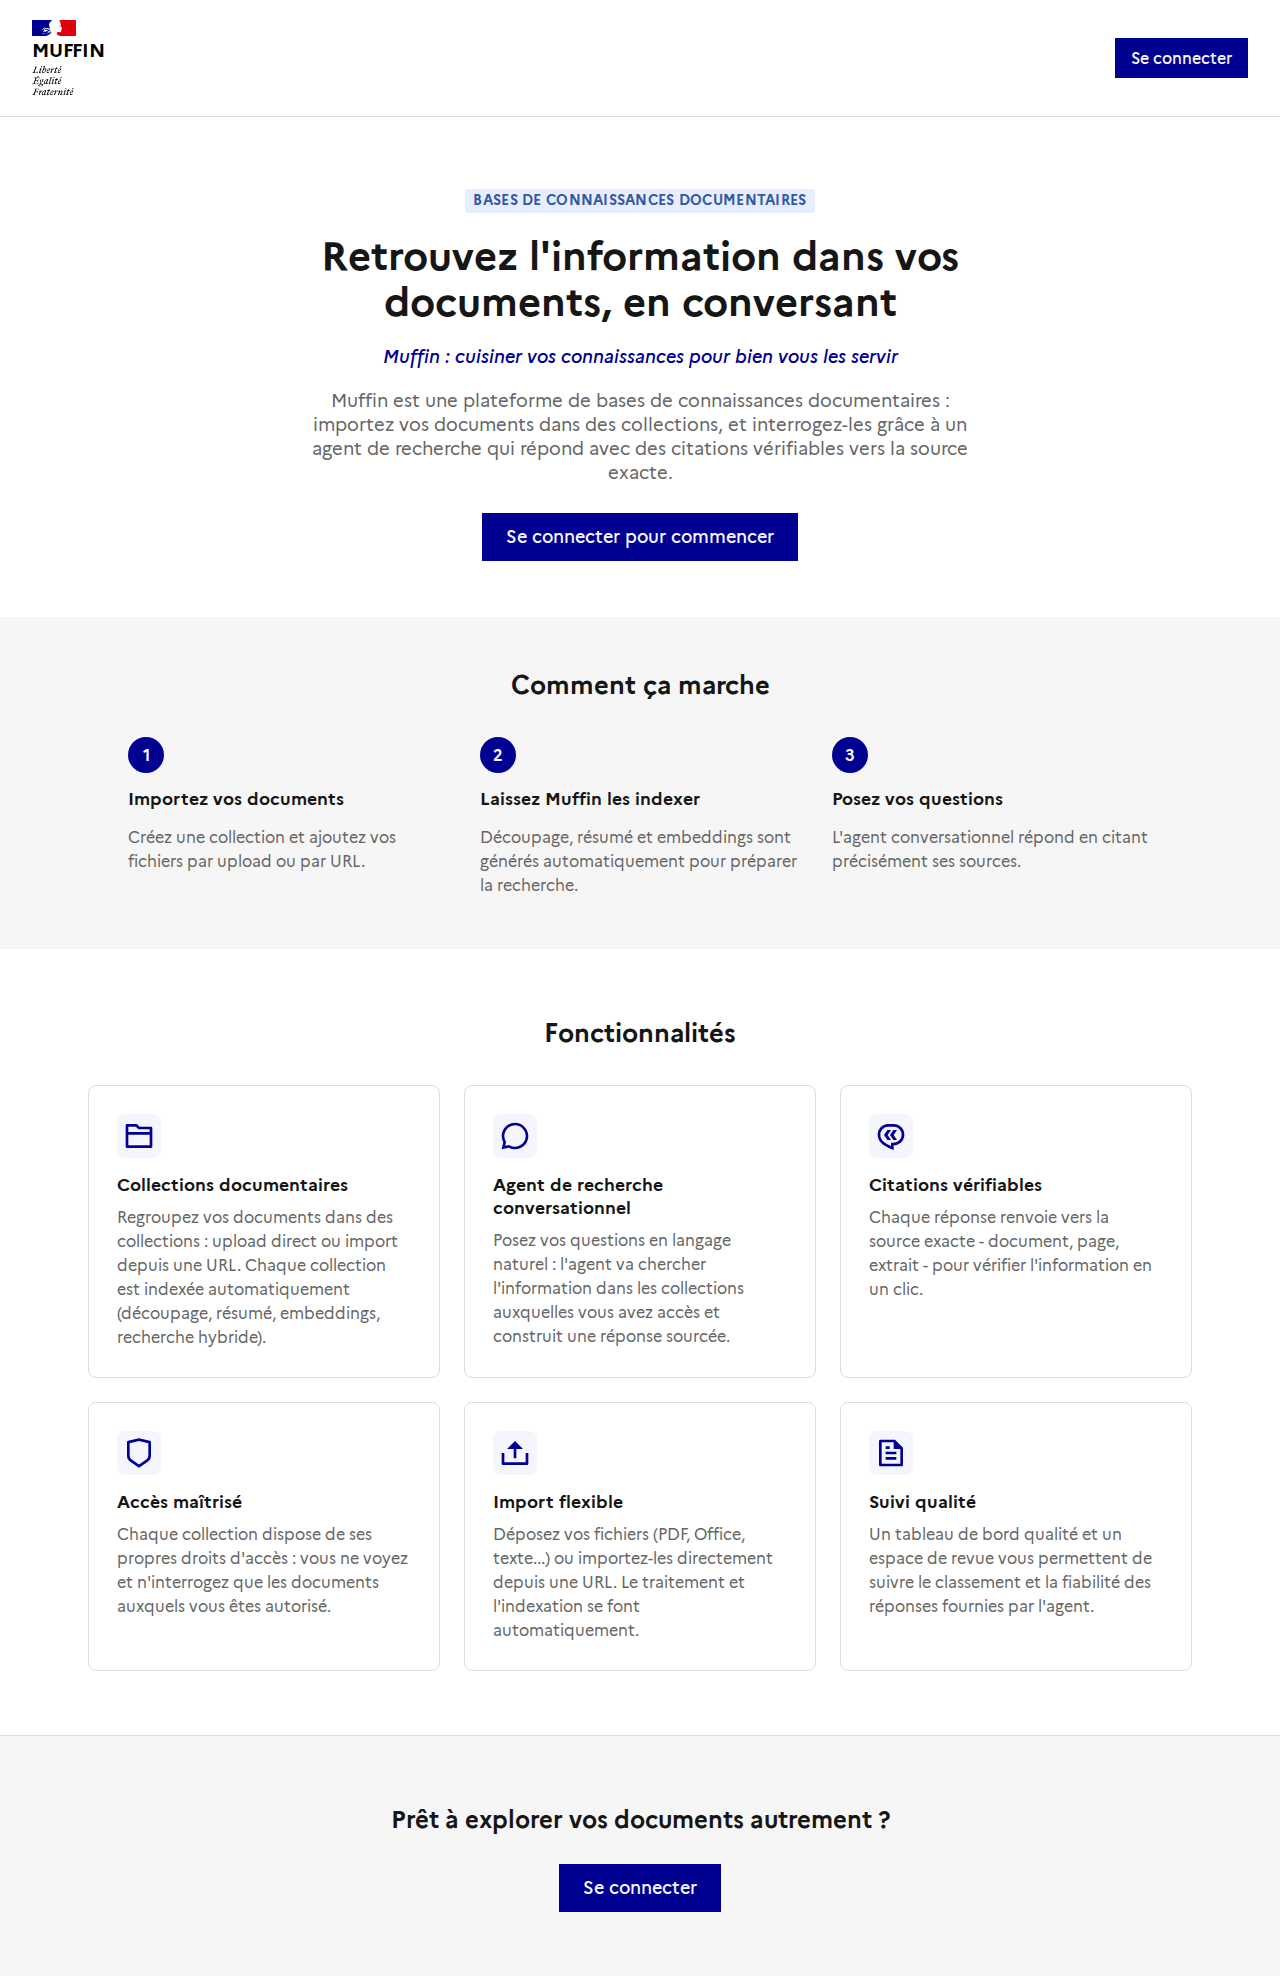
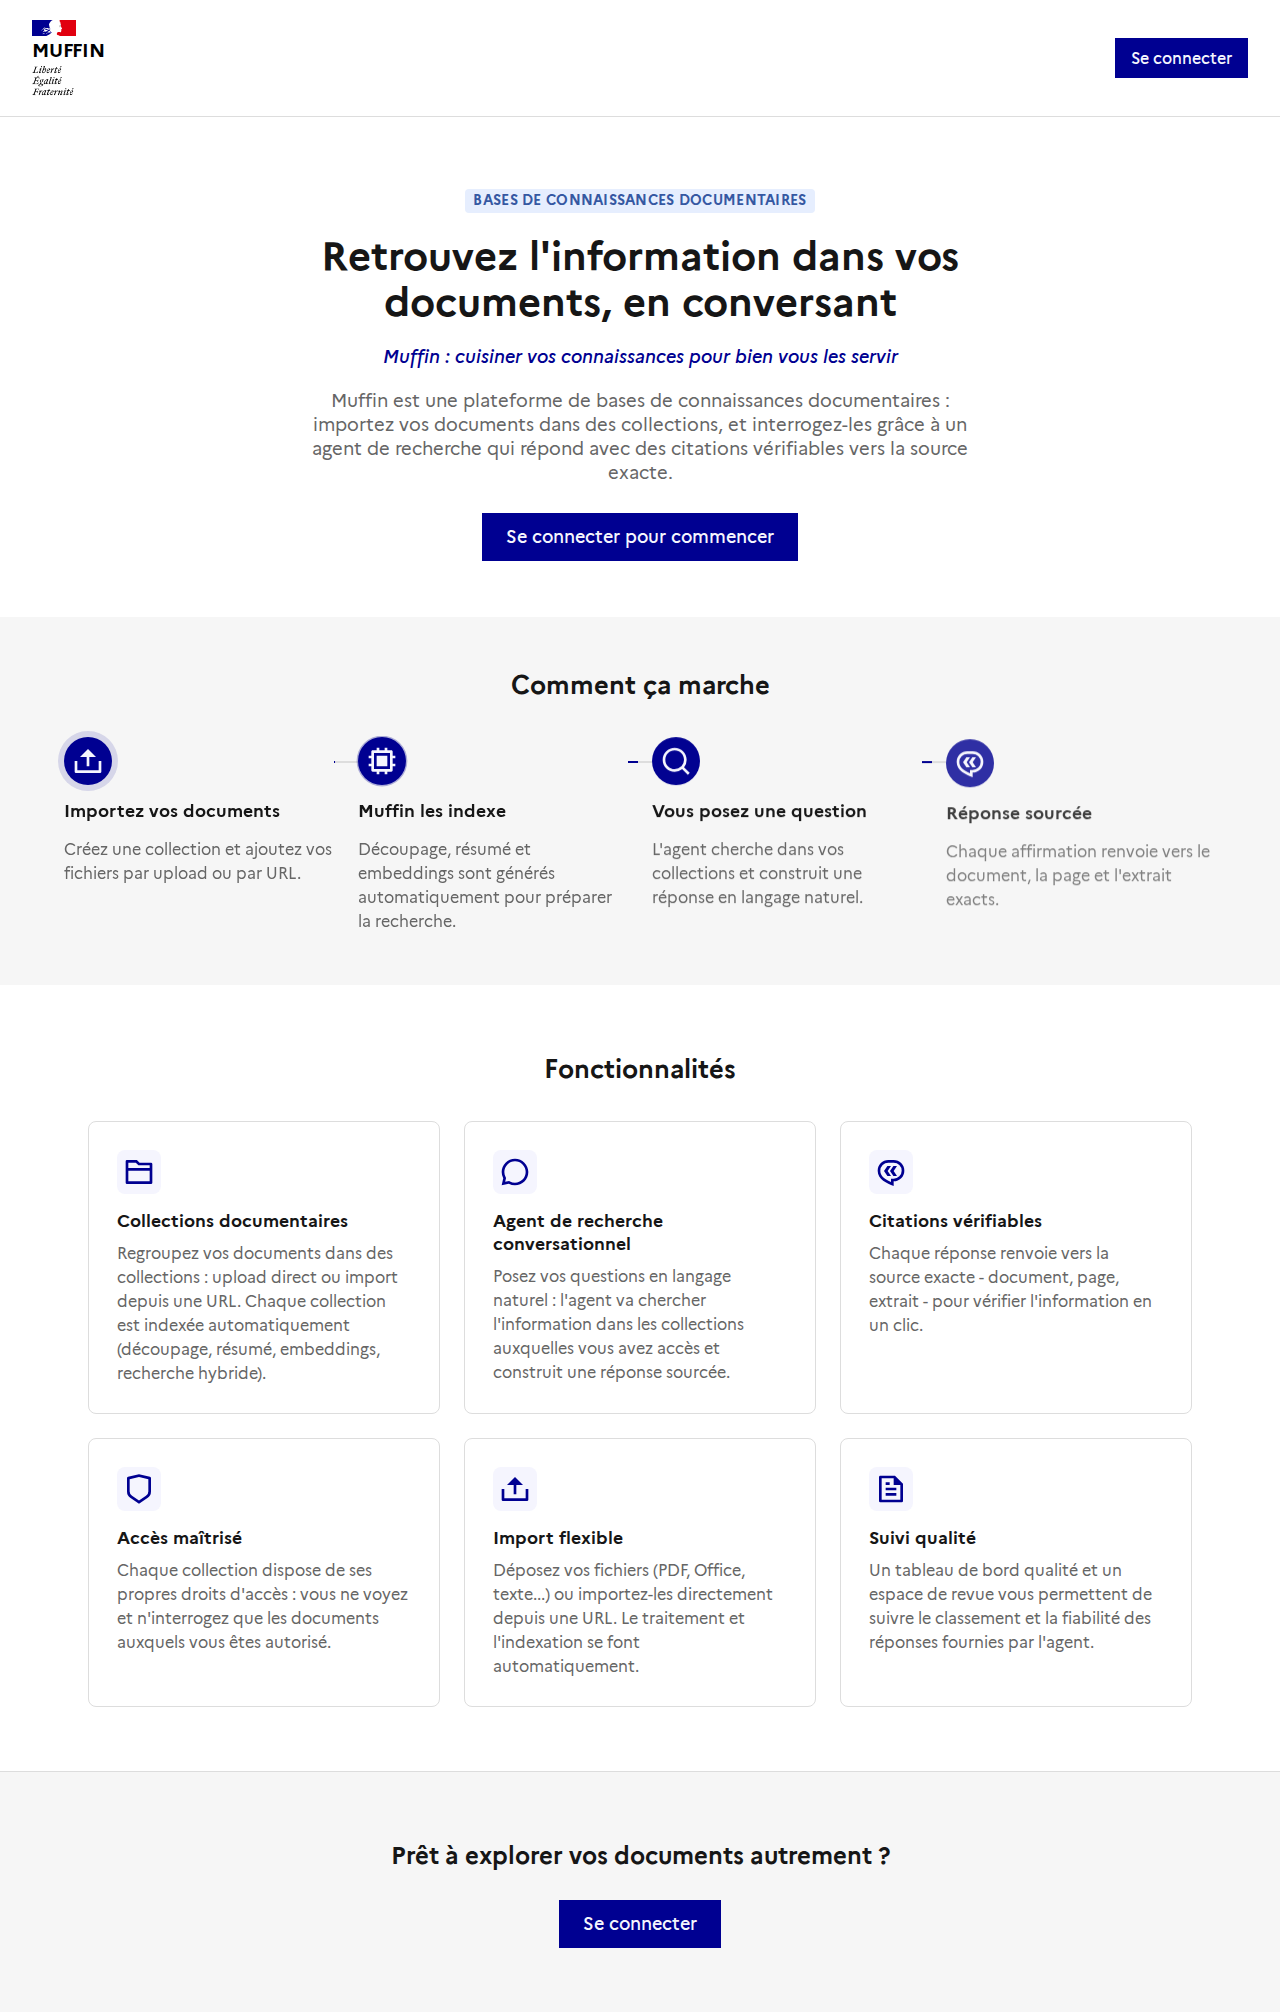
feat(frontend): animate the "how it works" process diagram
Replace the numbered steps list with a 4-node pipeline (import,
indexation, question, réponse sourcée) connected by an animated flow
and pulsing icons, respecting prefers-reduced-motion.

diff --git a/frontend/src/components/HomeView.vue b/frontend/src/components/HomeView.vue
@@ -42,16 +42,24 @@ const features = [
 
 const steps = [
   {
+    icon: 'fr-icon-upload-2-line',
     title: 'Importez vos documents',
-    description: "Créez une collection et ajoutez vos fichiers par upload ou par URL.",
+    description: 'Créez une collection et ajoutez vos fichiers par upload ou par URL.',
   },
   {
-    title: "Laissez Muffin les indexer",
+    icon: 'fr-icon-cpu-line',
+    title: 'Muffin les indexe',
     description: 'Découpage, résumé et embeddings sont générés automatiquement pour préparer la recherche.',
   },
   {
-    title: 'Posez vos questions',
-    description: "L'agent conversationnel répond en citant précisément ses sources.",
+    icon: 'fr-icon-search-line',
+    title: 'Vous posez une question',
+    description: "L'agent cherche dans vos collections et construit une réponse en langage naturel.",
+  },
+  {
+    icon: 'fr-icon-quote-line',
+    title: 'Réponse sourcée',
+    description: 'Chaque affirmation renvoie vers le document, la page et l\'extrait exacts.',
   },
 ]
 </script>
@@ -81,9 +89,14 @@ const steps = [
 
     <section class="home__steps" aria-label="Comment ça marche">
       <h2 class="home__section-title">Comment ça marche</h2>
-      <ol class="home__steps-list">
-        <li v-for="(step, index) in steps" :key="step.title" class="home__step">
-          <span class="home__step-number">{{ index + 1 }}</span>
+      <ol class="home__process">
+        <li v-for="(step, index) in steps" :key="step.title" class="home__process-node" :style="{ '--i': index }">
+          <span class="home__process-icon-wrap">
+            <span class="home__process-icon fr-icon fr-icon--lg" :class="step.icon" aria-hidden="true"></span>
+          </span>
+          <span v-if="index < steps.length - 1" class="home__process-connector" aria-hidden="true">
+            <span class="home__process-connector-flow"></span>
+          </span>
           <h3 class="home__step-title">{{ step.title }}</h3>
           <p class="home__step-description">{{ step.description }}</p>
         </li>
@@ -191,33 +204,103 @@ const steps = [
   background: var(--background-alt-grey);
 }
 
-.home__steps-list {
+.home__process {
   list-style: none;
   margin: 0 auto;
   padding: 0;
-  max-width: 64rem;
+  max-width: 72rem;
   display: grid;
-  grid-template-columns: repeat(auto-fit, minmax(14rem, 1fr));
-  gap: 2rem;
+  grid-template-columns: repeat(4, 1fr);
+  gap: 0.5rem 1.5rem;
 }
 
-.home__step {
+.home__process-node {
+  position: relative;
   display: flex;
   flex-direction: column;
   align-items: flex-start;
   gap: 0.5rem;
+  opacity: 0;
+  animation: home-node-in 0.5s ease-out forwards;
+  animation-delay: calc(var(--i) * 0.15s);
 }
 
-.home__step-number {
+.home__process-icon-wrap {
   display: flex;
   align-items: center;
   justify-content: center;
-  width: 2.25rem;
-  height: 2.25rem;
+  width: 3rem;
+  height: 3rem;
   border-radius: 50%;
   background: var(--background-action-high-blue-france);
   color: var(--text-inverted-blue-france);
-  font-weight: bold;
+  box-shadow: 0 0 0 0 rgba(0, 0, 145, 0.35);
+  animation: home-node-pulse 2.4s ease-out infinite;
+  animation-delay: calc(var(--i) * 0.6s);
+}
+
+.home__process-icon {
+  color: currentColor;
+}
+
+.home__process-connector {
+  position: absolute;
+  top: 1.5rem;
+  left: 100%;
+  width: 1.5rem;
+  height: 2px;
+  overflow: hidden;
+  background: var(--border-default-grey);
+}
+
+.home__process-connector-flow {
+  position: absolute;
+  inset: 0;
+  width: 40%;
+  background: var(--background-action-high-blue-france);
+  animation: home-flow 1.8s linear infinite;
+  animation-delay: calc(var(--i) * 0.6s);
+}
+
+@keyframes home-node-in {
+  from {
+    opacity: 0;
+    transform: translateY(0.75rem);
+  }
+  to {
+    opacity: 1;
+    transform: translateY(0);
+  }
+}
+
+@keyframes home-node-pulse {
+  0% {
+    box-shadow: 0 0 0 0 rgba(0, 0, 145, 0.35);
+  }
+  70% {
+    box-shadow: 0 0 0 0.6rem rgba(0, 0, 145, 0);
+  }
+  100% {
+    box-shadow: 0 0 0 0 rgba(0, 0, 145, 0);
+  }
+}
+
+@keyframes home-flow {
+  from {
+    transform: translateX(-100%);
+  }
+  to {
+    transform: translateX(250%);
+  }
+}
+
+@media (prefers-reduced-motion: reduce) {
+  .home__process-node,
+  .home__process-icon-wrap,
+  .home__process-connector-flow {
+    animation: none;
+    opacity: 1;
+  }
 }
 
 .home__step-title {
@@ -319,6 +402,33 @@ const steps = [
   .home__features,
   .home__footer {
     padding: 2.5rem 1rem;
+  }
+
+  .home__process {
+    grid-template-columns: 1fr;
+    gap: 1.75rem;
+  }
+
+  .home__process-connector {
+    top: 3rem;
+    left: 1.5rem;
+    width: 2px;
+    height: 1.75rem;
+  }
+
+  .home__process-connector-flow {
+    width: 100%;
+    height: 40%;
+    animation-name: home-flow-vertical;
+  }
+}
+
+@keyframes home-flow-vertical {
+  from {
+    transform: translateY(-100%);
+  }
+  to {
+    transform: translateY(250%);
   }
 }
 </style>
